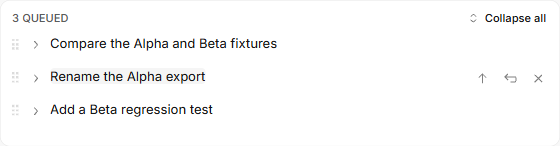
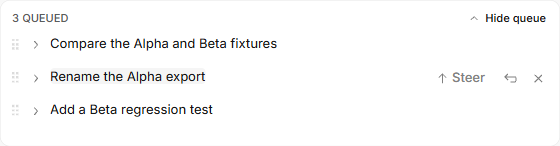
chore: update queue expansion review evidence

Changed region(s): [[0.8196, 0.0822, 1.0, 0.1644], [0.7893, 0.4932, 0.8804, 0.5753]]

diff --git a/screenshots/queue-expansion/README.md b/screenshots/queue-expansion/README.md
@@ -1,38 +1,36 @@
-# Queued-message expansion screenshots
+# Queued-message expansion evidence
 
-These are implementation screenshots, not separate mockups. They were rendered from the story harness
-(`bun --cwd packages/stories dev`) with the real `SessionQueuePanel` and `SessionComposerRegion` components, deterministic
-prompts from `packages/app/src/session/composer/queue-panel.stories.tsx`, and the production app styles. Device scale is 2x.
+These images are review evidence for PR #66006, hosted on a separate fork branch so they do not land in the
+implementation diff. They were rendered from the real `SessionQueuePanel` and `SessionComposerRegion` components
+through the story harness with production styles and deterministic fixtures. Device scale is 2x.
 
-Desktop states use the 1280 x 900 viewport unless the filename says otherwise. `18-long-narrow-expanded-dark.png` uses
-390 x 844.
+`00-before-*` are captures from `origin/dev` in a separate worktree at the same story IDs. The rest are from the PR
+branch after review.
 
-`00-before-*` are captures from `origin/dev` before this change, made in a separate worktree with the same story harness.
-The rest are after.
+Desktop states use 1280 x 900. `18-long-narrow-expanded-dark.png` uses 390 x 844.
 
 | File                                      | State                                                                   |
 | ----------------------------------------- | ----------------------------------------------------------------------- |
-| `00-before-multiple-collapsed-light.png`  | Before: three queued messages, no expansion or collapse controls.       |
-| `00-before-large-queue-light.png`         | Before: six queued messages, no queue-level collapse control.            |
+| `00-before-multiple-collapsed-light.png`  | Before: three queued messages, no expansion or bulk visibility controls. |
+| `00-before-large-queue-light.png`         | Before: six queued messages, no queue-level visibility control.          |
 | `01-empty-light.png`                      | Empty queue: the composer only.                                         |
 | `02-single-collapsed-light.png`           | One long queued message, collapsed to its single-line summary.          |
 | `03-single-expanded-light.png`            | One queued message expanded to its full text.                           |
-| `04-multiple-collapsed-light.png`         | Three queued messages, each collapsed, with the queue header.           |
+| `04-multiple-collapsed-light.png`         | Three queued messages, each collapsed, with the Hide queue control.     |
 | `05-multiple-expanded-light.png`          | Every queued message expanded independently.                            |
 | `06-mixed-light.png`                      | Mixed states: first and third expanded, middle collapsed.               |
-| `07-row-hover-actions-light.png`          | Row hover: steer, undo and remove controls.                             |
+| `07-row-hover-actions-light.png`          | Row hover: the original labelled Steer, Undo and Remove controls.       |
 | `08-row-expand-focus-light.png`           | Keyboard focus on a message's expand control.                           |
-| `09-header-focus-hover-light.png`         | Keyboard focus on Collapse all, with a second row hovered.              |
-| `10-parked-actions-light.png`             | Parked queue: the first message's send action is always visible.        |
+| `09-header-focus-hover-light.png`         | Keyboard focus on Hide queue, with a second row hovered.                |
+| `10-parked-actions-light.png`             | Parked queue: the original labelled Send action is visible.             |
 | `11-large-queue-light.png`                | Six messages: the queue scrolls under its edge fade.                    |
 | `12-in-app-queue-light.png`               | The queue in the composer region, light theme.                          |
-| `13-in-app-summary-light.png`             | The whole queue collapsed to its compact summary, light theme.          |
+| `13-in-app-summary-light.png`             | The whole queue hidden behind its compact summary, light theme.         |
 | `14-in-app-queue-dark.png`                | The queue in the composer region, dark theme.                           |
-| `15-in-app-summary-dark.png`              | The whole queue collapsed to its compact summary, dark theme.           |
+| `15-in-app-summary-dark.png`              | The whole queue hidden behind its compact summary, dark theme.          |
 | `16-multiple-expanded-dark.png`           | Independently expanded messages, dark theme.                            |
 | `17-mixed-dark.png`                       | Mixed per-message expansion, dark theme.                                |
 | `18-long-narrow-expanded-dark.png`        | Long expanded messages at 390 px, dark theme, scrolling under the fade. |
-| `19-summary-focus-light.png`              | Keyboard focus on the summary pill after Collapse all.                  |
 
-The whole-queue Collapse all state (13 and 15) hides every queued row and leaves the compact summary pill. Expanding it
-restores each message's previous per-message expansion state.
+Hide queue hides every queued row and leaves the compact summary pill. Opening the pill restores each message's
+previous per-message expansion state. Row actions keep their existing labelled Steer/Send and tooltip behavior.
